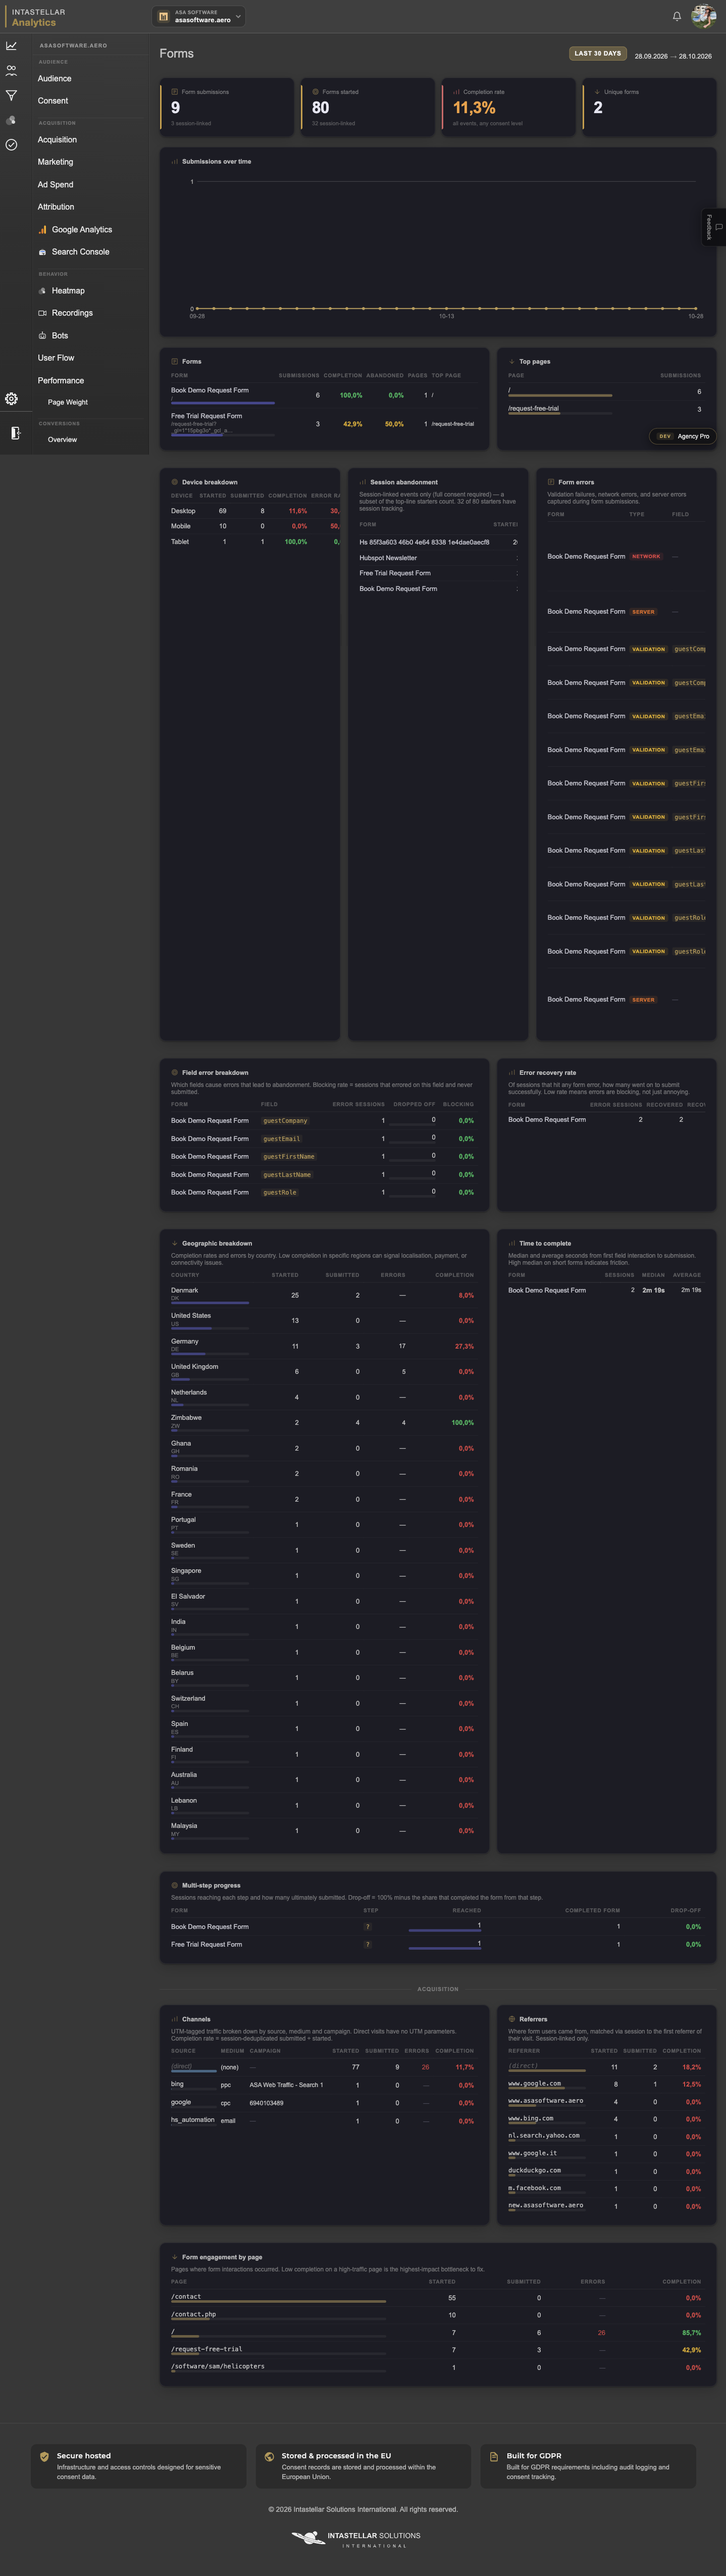
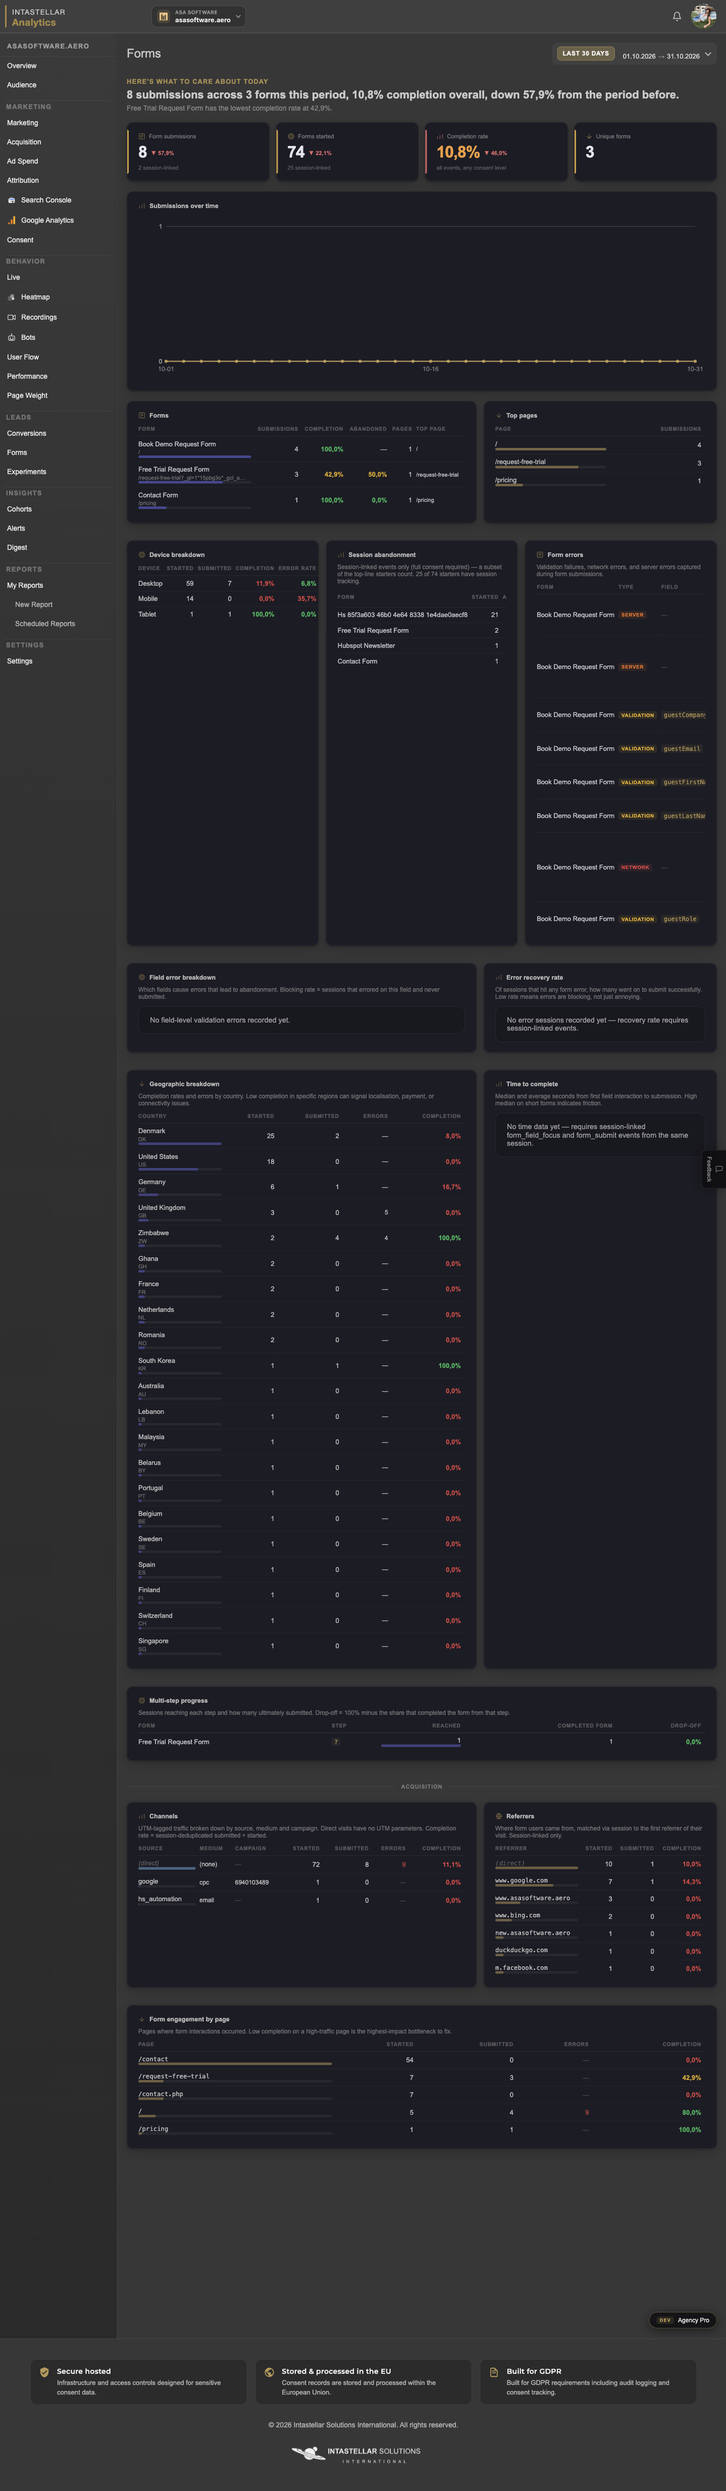
Forms dashboard: headline insight + previous-period KPI trends
Phase 5 item 1, docs/design-audit-plan.md. First of three directions
requested for making the Forms dashboard "more data driven + more
helpful for understanding" — the page had a lot of tables already but
none of the synthesized-takeaway treatment Overview got in Phase 4,
and its KPI strip never used the useCompareRange/usePrevRange hooks
already wired up on every other Analytics page.

buildFormsHeadline() mirrors index.js's buildOverviewHeadline(): totals
+ trend in the headline, the form most worth fixing right now (lowest
completion rate among forms with enough volume to mean something, plus
its top dropout field when known) in the subline. Reuses the existing
.sa-overview-headline CSS verbatim — never scoped to Overview, no new
styles needed.

KPI trend chips on Submissions/Forms started/Completion rate reuse
_shared.js's usePrevRange()+pctChange(), the same mechanism Overview
already uses, just not previously connected on this page. Left Unique
forms without a trend — it's a config fact, not a performance metric.

Verified live against this account's real data at 1024/1280/1440px;
before/after screenshots in docs/design-screenshots/. Babel + full
test suite (117/117) pass.

diff --git a/src/Pages/Analytics/Forms.js b/src/Pages/Analytics/Forms.js
@@ -3,6 +3,7 @@ import { ScannerHost } from "../../API/host.js";
 import StickyPageTitle from "../../Components/Header/Sticky/index.js";
 import {
     useAnalyticsPageChrome, authHeaders, KpiCard, MiniBar, formatPercent, useCompareRange,
+    usePrevRange, pctChange,
 } from "./_shared.js";
 import { IconFormFill, IconBarChart, IconTarget, IconScrollDepth, IconGlobe } from "./Icons.js";
 import TrendLineChart from "./TrendLineChart.js";
@@ -694,6 +695,49 @@ function AcqPagesTable({ pages }) {
     );
 }
 
+// Pure, testable — same "synthesized takeaway" pattern as index.js's
+// buildOverviewHeadline() (docs/design-audit-plan.md Phase 4 item 4):
+// aggregate totals in the headline, the single most actionable finding
+// (the form most worth fixing right now) in the subline, rather than
+// leaving the reader to cross-reference the tables below to find it.
+function buildFormsHeadline({ data, trendSubmissions }) {
+    const subs = data.totals.submissions ?? 0;
+    const forms = data.forms || [];
+    const numForms = forms.length;
+    if (subs === 0 && numForms === 0) return null;
+
+    let headline = `${subs.toLocaleString("de-DE")} submission${subs === 1 ? "" : "s"} across `
+        + `${numForms} form${numForms === 1 ? "" : "s"} this period`;
+    if (data.totals.completionRate != null) {
+        headline += `, ${formatPercent(data.totals.completionRate, 1)} completion overall`;
+    }
+    if (trendSubmissions != null && Number.isFinite(trendSubmissions)) {
+        headline += `, ${trendSubmissions >= 0 ? "up" : "down"} ${formatPercent(Math.abs(trendSubmissions))} from the period before`;
+    }
+    headline += ".";
+
+    // Only call out a form by name once there's enough volume for the rate
+    // to mean anything — a 1-starter form at 0% isn't a real finding.
+    const MIN_STARTERS = 5;
+    const candidates = forms.filter(f => f.completionRate != null && f.starters >= MIN_STARTERS);
+    const worst = candidates.length
+        ? candidates.reduce((a, b) => (b.completionRate < a.completionRate ? b : a))
+        : null;
+
+    let subline = null;
+    if (worst) {
+        const abandon = (data.abandonment || []).find(a => a.formId === worst.formId);
+        subline = `${worst.label || cleanFormId(worst.formId)} has the lowest completion rate at ${formatPercent(worst.completionRate, 1)}`;
+        subline += abandon?.topDropoutField
+            ? ` — most drop-off happens at the "${abandon.topDropoutField}" field.`
+            : ".";
+    } else if (numForms > 0) {
+        subline = "No form is showing a concerning completion rate right now.";
+    }
+
+    return { eyebrow: "Here's what to care about today", headline, subline };
+}
+
 export default function AnalyticsForms() {
     const {
         domain,
@@ -727,6 +771,14 @@ export default function AnalyticsForms() {
     // Compare-to-previous-period header wiring (Phase 3, docs/design-audit-plan.md).
     const compare = useCompareRange();
 
+    // KPI trend chips + headline sentence — same usePrevRange()/pctChange()
+    // pattern index.js already uses, just not previously wired up here.
+    const prevRange = usePrevRange(fromDate, toDate, compare);
+    const { data: prevData } = useFormsReport(domain, prevRange.fromIso, prevRange.toIso);
+    const trendSubmissions = useMemo(() => pctChange(data?.totals?.submissions,    prevData?.totals?.submissions),    [data, prevData]);
+    const trendStarters    = useMemo(() => pctChange(data?.totals?.starters,       prevData?.totals?.starters),       [data, prevData]);
+    const trendCompletion  = useMemo(() => pctChange(data?.totals?.completionRate, prevData?.totals?.completionRate), [data, prevData]);
+
     return (
         <div style={{ flex: "1", minWidth: 0 }}>
             <StickyPageTitle
@@ -754,11 +806,27 @@ export default function AnalyticsForms() {
 
                     {domain && !loading && data && (
                         <>
+                            {/* ── Headline sentence ───────────────────────────────
+                                docs/design-audit-plan.md Phase 5, same synthesized-
+                                takeaway pattern as Overview's (Phase 4 item 4). */}
+                            {(() => {
+                                const h = buildFormsHeadline({ data, trendSubmissions });
+                                if (!h) return null;
+                                return (
+                                    <div className="sa-overview-headline">
+                                        <p className="sa-overview-headline__eyebrow">{h.eyebrow}</p>
+                                        <p className="sa-overview-headline__text">{h.headline}</p>
+                                        {h.subline && <p className="sa-overview-headline__sub">{h.subline}</p>}
+                                    </div>
+                                );
+                            })()}
+
                             <div className="sa-kpi-strip sa-kpi-strip--4">
                                 <KpiCard
                                     icon={<IconFormFill />}
                                     label="Form submissions"
                                     value={(data.totals.submissions ?? 0).toLocaleString("de-DE")}
+                                    trend={trendSubmissions}
                                     sub={
                                         data.totals.sessionSubmissions < data.totals.submissions
                                             ? `${data.totals.sessionSubmissions.toLocaleString("de-DE")} session-linked`
@@ -771,6 +839,7 @@ export default function AnalyticsForms() {
                                     value={data.totals.starters > 0
                                         ? data.totals.starters.toLocaleString("de-DE")
                                         : "—"}
+                                    trend={data.totals.starters > 0 ? trendStarters : undefined}
                                     sub={
                                         data.totals.starters > 0
                                             ? (data.totals.sessionStarters < data.totals.starters
@@ -785,6 +854,7 @@ export default function AnalyticsForms() {
                                     value={data.totals.completionRate != null
                                         ? formatPercent(data.totals.completionRate, 1)
                                         : "—"}
+                                    trend={data.totals.completionRate != null ? trendCompletion : undefined}
                                     sub={data.totals.completionRate != null
                                         ? "all events, any consent level"
                                         : "No form_started events yet"}

diff --git a/docs/design-audit-plan.md b/docs/design-audit-plan.md
@@ -1726,3 +1726,48 @@ here," positioned before the Consent Impact Estimator panel. No new console erro
 Frustration-signals warning). This only confirms the empty-state path — the real-data path needs both
 this deploying and an e-commerce-type account with those event kinds registered, neither available to
 test from here. Babel + full test suite (117/117) pass.
+
+Phase 4's remaining item (a "needs attention" insights list using `InsightCard`) is paused, not
+dropped — you redirected to the Forms dashboard before I got a go/no-go on it.
+
+## Phase 5: Forms dashboard — more data-driven, more helpful
+
+You asked for the Forms page to be "more data driven + more helpful for understanding." It already had
+a lot of tables (abandonment, field errors, step progress, geo, acquisition, …) but none of the
+synthesized-takeaway treatment Phase 4 gave Overview, and its KPI strip never used the
+`useCompareRange`/`usePrevRange` hooks already sitting in `_shared.js` and already wired up on every
+other Analytics page. You picked all three candidate directions I proposed; doing them as separate
+items/commits rather than one large change.
+
+### 1. Headline insight + KPI trends — done, verified live
+
+**`src/Pages/Analytics/Forms.js`:** added `buildFormsHeadline({ data, trendSubmissions })`, a pure
+module-level function mirroring `index.js`'s `buildOverviewHeadline()` exactly — aggregate totals
+(submissions, forms, overall completion, trend vs. previous period) in the headline, and the single
+most actionable finding in the subline: the form with the lowest completion rate (among forms with
+≥5 starters, so a 1-starter form at 0% doesn't get called out), plus its top dropout field from
+`data.abandonment` when one exists. Rendered with the exact same `.sa-overview-headline*` CSS classes
+Overview uses — they were never scoped to `.sa-overview`, so no new CSS was needed.
+
+Wired `usePrevRange(fromDate, toDate, compare)` + a second `useFormsReport()` call for the previous
+period, then `pctChange()` (both already exported from `_shared.js`, already used this way on
+Overview — not new code, just not previously connected here) to feed `trend` into the Submissions,
+Forms started, and Completion rate KPI cards. Left "Unique forms" without a trend chip — it's a
+configuration fact, not a performance metric with a meaningful direction.
+
+**Verified live (asasoftware.aero, this test account's real data, 1024/1280/1440px):** headline reads
+"8 submissions across 3 forms this period, 10,8% completion overall, down 57,9% from the period
+before." / "Free Trial Request Form has the lowest completion rate at 42,9%." — matching the account's
+actual totals and the one form that actually has enough volume to be worth naming. KPI strip shows
+▼57,9% / ▼22,1% / ▼46,0% on the three trended cards, no chip on Unique forms. No horizontal overflow,
+no new console errors, at any of the three widths. Babel + full test suite (117/117) pass.
+
+**One self-caught capture issue, not a real bug:** the first `fullPage: true` screenshot of the
+"after" state showed the fixed header and sticky sidebar nav appearing a second time partway down the
+page. Checked via `document.querySelectorAll` before assuming anything — exactly one `.sa-sticky-header`
+and one nav element exist in the DOM; this was Puppeteer's own `fullPage` capture stitching fixed/sticky
+elements at their CSS offset rather than scroll position, not something a real scrolling user would
+ever see, and not present in the "before" shot only because it's sensitive to the page's total content
+height (which my change shifts by the few lines the headline adds). Re-captured every width with an
+explicit full-content-height viewport instead of `fullPage: true`, which is clean. Screenshots:
+`docs/design-screenshots/forms-{before,after}-{1024,1280,1440}.png`.
